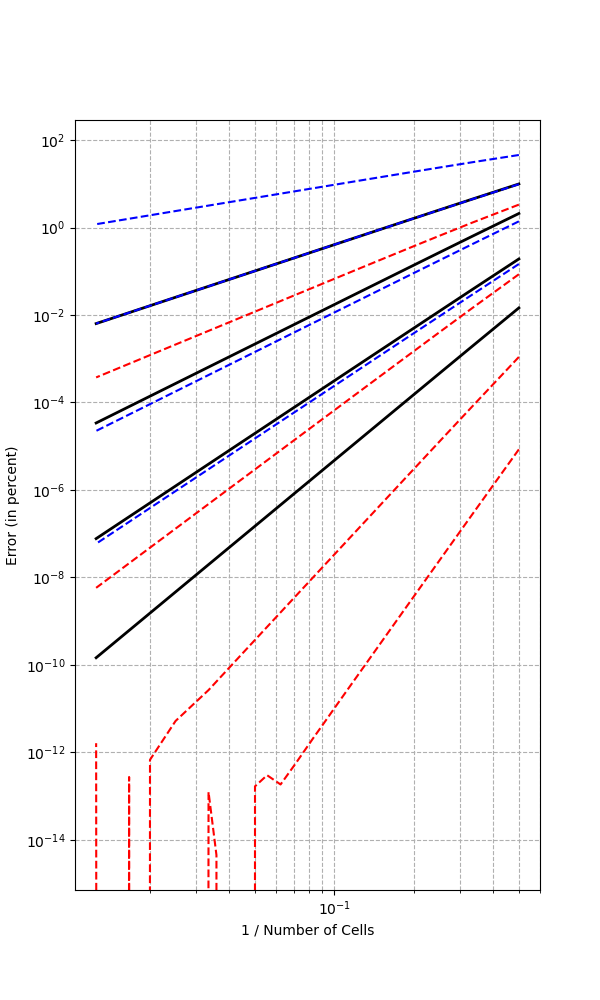
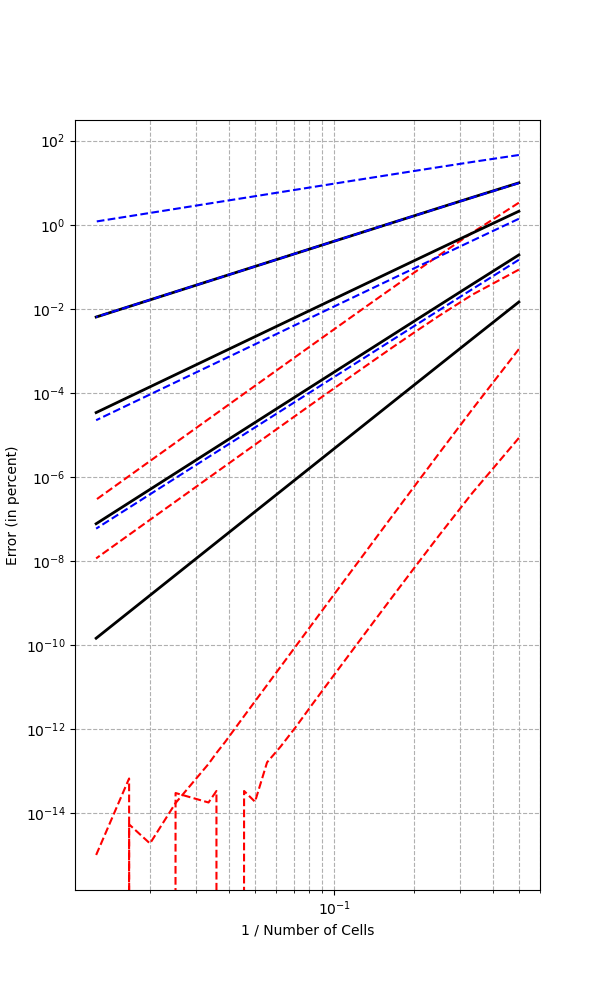
Final touch

diff --git a/main.py b/main.py
@@ -3,14 +3,10 @@ import scipy as sp
 import matplotlib.pyplot as plt
 from scipy.integrate import quad
 
-# pd.n_cells: number of cells
-# pd.h: cell diameter, uniform for all elements
-# pd.K: polynomial degree, equal for all elements
-
-# cell dofs of all the cells first 
-# then the edge dofs 
-
-# Github copilot hadrien-beriot_SAGCP
+# 1D HHO code from Chapter 8 of  
+# CICUTTIN, Matteo; ERN, Alexandre; PIGNET, Nicolas. 
+# "Hybrid High-Order Methods: a primer with applications to solid mechanics"
+# Cham, Switzerland: Springer, 2021.
 
 class ProblemDefinition:
     def __init__(self):
@@ -109,9 +105,10 @@ def get_dofs_super(pd,elem):
     return elem_dofs_super, cell_dofs_super, face_dofs_super
 
 def basis(x, x_bar, h, max_k):
-    # Listing 8.1 Possible implementation of a function evaluating the scaled monomial
-    # scalar basis and its derivatives in a 1D cell.
-    # convert to local coord x_tilde in [-1,1]  
+    """ 
+    Listing 8.1 Possible implementation of a function evaluating the scaled monomial
+    scalar basis and its derivatives in a 1D cell.
+    """  
     x_tilde = 2*(x-x_bar)/h 
     phi = np.zeros(max_k+1)
     dphi = np.zeros(max_k+1)
@@ -141,9 +138,9 @@ def fun_rhs_vector(pd, order, elem, fun):
     return rhs
 
 def hho_reduction(pd, elem, fun):
-    # Listing 8.2 Possible implementation of the reduction operator in 1D.
-    # Simple L^2 projection at order p !
-    # contains also projection on face dofs   
+    """
+    Listing 8.2 Possible implementation of the reduction operator in 1D.
+    """   
     order = pd.K
     mass = get_matrices(pd, order, elem)[0]
     v_rhs = fun_rhs_vector(pd, order, elem, fun)
@@ -156,20 +153,16 @@ def hho_reduction(pd, elem, fun):
     return I
 
 def hho_reconstruction(pd,elem): 
-    # Listing 8.3 Possible implementation of the reconstruction operator in 1D.
+    """
+    Listing 8.3 Possible implementation of the reconstruction operator in 1D.
     
     # R translates a vector from P_d^{k} to P_d^{k+1}
     # if v is a vector of HHO solution then R@v is in P_d^{k+1} 
-    # hence we have K = R^T @ K+ @ R, where K+ is the stiffness matrix of order K+1
-    # such R it translates the vector of unknowns into a higher degree space 
-    # issue is that we have to remove the constant term from the stiffness matrix
-    # and then add it back again. So we find first K*
-    # K* R = T - F1 - F2
-
+    # such that R translates the vector of unknowns into a higher degree space 
     # A := R.T @ K_star @ R
     #      2x4 @  4x4   @ 4x2 (linear K=0)
     # where K_star is a standard stiffness matrix of order K+1 with constant removed 
-            
+    """        
     x_bar = cell_center(pd, elem)
     xF1, xF2 = face_centers(pd, elem)
     
@@ -218,13 +211,15 @@ def get_phi_norm(pd, elem, order):
     return phi_norm
 
 def hho_vector_from_sol(pd,v_sol):
-    # reconstruct HHO vector in P_d^{k+1}
-    # from solution vector in P_d^{k} using reconstruction operator R
+    """
+    Reconstruct HHO vector in P_d^{k+1} 
+    from solution vector in P_d^{k} using reconstruction operator R
+    """
     v_hho = np.zeros(pd.n_dofs_super)
     for elem in range(pd.n_cells):
         elem_dofs, cell_dofs, face_dofs = get_dofs(pd,elem)
         elem_dofs_super, cell_dofs_super, face_dofs_super = get_dofs_super(pd,elem)
-        A_elem, R_elem = hho_reconstruction(pd, elem)
+        R_elem = hho_reconstruction(pd, elem)[1]
         vstar = R_elem @ v_sol[elem_dofs]
         vT = v_sol[cell_dofs]
         # need the constant term of cell dofs 
@@ -240,7 +235,9 @@ def hho_vector_from_sol(pd,v_sol):
     return v_hho
 
 def compute_cell_vector_norm(pd, elem, vector, order, is_constant = False):
-    # compute the norm of a vector on a cell - up to a constant
+    """
+    compute the norm of a vector on a cell - w/ or w/o the constant (monomial basis)
+    """
     if is_constant:
         phi_start_index = 0
     else:
@@ -295,13 +292,13 @@ def hho_stabilization(pd, elem, R):
     return S
 
 def HHO_check_operators(pd, v_func, fig_name = None):
-    # Need to replace everything after I calculation 
-
-    # hho reduction --> simple L^2
+    """
+    Check the HHO operators on a single run
+    """
+    # hho reduction --> simple L^2 projection
     I = np.zeros(pd.n_dofs)
-    # hho stiffness - using reconstruction R^T @ K* @ R and then adding the constant term
-    A = np.zeros((pd.n_dofs,pd.n_dofs))
-    S = np.zeros_like(A)
+    # hho stabilization
+    S = np.zeros((pd.n_dofs,pd.n_dofs))
     
     n_sampling = 20
     X = np.zeros(pd.n_cells*n_sampling)
@@ -309,58 +306,46 @@ def HHO_check_operators(pd, v_func, fig_name = None):
     V_L2 = np.zeros_like(X)
     V_REF = np.zeros_like(X)
     epsilon = 0
+
+    # First assemble "I", L2 projection of the target function
     for elem in range(pd.n_cells):
-        x_bar = cell_center(pd, elem)        
-        xF1, xF2 = face_centers(pd,elem)
-        elem_dofs, cell_dofs, face_dofs = get_dofs(pd,elem)
-
-        # hho_reduction is a simple L2 projection at order p
+        elem_dofs = get_dofs(pd,elem)[0]
         I_elem = hho_reduction(pd, elem, v_func)
-        I[elem_dofs] += I_elem
+        # Note: should not accumulate I here !!!
+        # otherwise sums up L^2 projection of v_func on faces (which is wrong)
+        I[elem_dofs] = I_elem
 
-        # Assemble HHO stifness matrix --> A = (∇RT (·),∇RT (·))L2(T ) - still missing the constant term though
-        A_elem, R_elem = hho_reconstruction(pd, elem)
-        A[np.ix_(elem_dofs, elem_dofs)] += A_elem 
+    # Then, reconstruct the HHO super convergent vector from "R"
+    V = hho_vector_from_sol(pd,I)
+
+    # Finally assemble the stabilization matrix "S"
+    for elem in range(pd.n_cells):
+        R_elem = hho_reconstruction(pd, elem)[1]
+        S_elem = hho_stabilization(pd, elem, R_elem)
+        S[np.ix_(elem_dofs, elem_dofs)] += S_elem
+
+    # local errors on the jump/stabilization
+    epsilon += I.T @ S @ I
     
-        # get the super convergent solution in the cell (up to a constant)
-        # I is a solution vector in P_d^k, containing the L2 projection of v(x) in each cell
-        # R is a reconstruction matrix from P_d^k to P_d^{k+1} - up to a constant
-        v_star = R_elem @ I_elem  
-
-        # now adjust the constant    
-        norm_vstar = compute_cell_vector_norm(pd, elem, v_star, pd.K+1, is_constant = False)
-        #norm_vstar = get_vstar_norm(pd, elem, v_star)        
-        norm_vT, error = quad(v_func, xF1, xF2, epsabs=1e-12, epsrel=1e-12)
-        v = np.zeros(v_star.shape[0]+1)
-        v[1:] = v_star
-        v[0] = (norm_vT - norm_vstar)/pd.h 
-
-        # also get a classical projection (L^2) for comparison
-        mass = get_matrices(pd, pd.K, elem)[0]
-        v_rhs = fun_rhs_vector(pd, pd.K, elem, v_func)
-        coeffs_L2 = np.linalg.solve(mass,v_rhs)
-
-        # plot it 
+    # Plot everything and compute pointwise errors
+    for elem in range(pd.n_cells):
+        x_bar = cell_center(pd, elem)
+        xF1, xF2 = face_centers(pd,elem)
+        cell_dofs = get_dofs(pd,elem)[1]
+        cell_dofs_super = get_dofs_super(pd,elem)[1]
         x_plot = np.linspace(xF1,xF2,n_sampling)
         for i, x in enumerate(x_plot):
             # order k+1
-            phi = basis(x, x_bar, pd.h, pd.K+1)[0]
-            V_HHO[elem*n_sampling+i] = np.dot(v,phi)
-            # order k (L^2)
+            phi_super = basis(x, x_bar, pd.h, pd.K+1)[0]
+            V_HHO[elem*n_sampling+i] = np.dot(V[cell_dofs_super],phi_super)
+            # order k
             phi = basis(x, x_bar, pd.h, pd.K)[0]
-            V_L2[elem*n_sampling+i] = np.dot(coeffs_L2,phi)
+            V_L2[elem*n_sampling+i] = np.dot(I[cell_dofs],phi)
             X[elem*n_sampling+i] = x
         
         # target function
         v_ref = [v_func(x) for x in x_plot]
         V_REF[elem*n_sampling:(elem+1)*n_sampling] = v_ref
-
-        # stabilization matrix
-        S_elem = hho_stabilization(pd, elem, R_elem)
-        S[np.ix_(elem_dofs, elem_dofs)] += S_elem
-
-        # compute the error on the jump
-        epsilon += I_elem.T @ S_elem @ I_elem
 
     # compute and print errors
     error_L2 = np.linalg.norm(V_L2 - V_REF)/np.linalg.norm(V_REF)*100
@@ -373,7 +358,7 @@ def HHO_check_operators(pd, v_func, fig_name = None):
 
     X_F = np.linspace(0, pd.domain_length, pd.n_cells + 1)
     V_F = np.array([v_func(x) for x in X_F])
-    # plot the result 
+    # plot the result like in Figs 8.4
     if fig_name is not None:
         plt.figure(figsize=(10,6))
         #plt.plot(X,V_REF,'r-',label='v(x) - reference')
@@ -383,28 +368,13 @@ def HHO_check_operators(pd, v_func, fig_name = None):
         plt.legend()
         plt.savefig(fig_name + ".png")  # Save as PNG
 
-    # ############################################
-    # # Try now a global reduction V_L2 = PHI @ I
-    # ############################################
-    # n_sampling = 100
-    # PHI = np.zeros((pd.n_cells*n_sampling,pd.n_dofs))
-    # for elem in range(pd.n_cells):
-    #     # from (8.11)    
-    #     x_bar = cell_center(pd, elem)
-    #     xF1, xF2 = face_centers(pd,elem)
-    #     elem_dofs, cell_dofs, face_dofs = get_dofs(pd,elem) 
-    #     x_plot = np.linspace(xF1,xF2,n_sampling)
-    #     for i, x in enumerate(x_plot):
-    #         phi = basis(x, x_bar, pd.h, pd.K)[0]
-    #         PHI[elem*n_sampling+i,cell_dofs] = phi
-        
-    # V_L2 = PHI @ I
-
     return error_L2, error_HHO, error_jump
 
 def HHO_Assemble_Stiffness(pd):
-    # Assemble HHO stifness matrix 
-    # A = (∇RT (·),∇RT (·))L2(T ) - still missing the constant term though
+    """
+    Assemble HHO stifness matrix 
+    # A = (∇RT (·),∇RT (·))L2(T ) 
+    """ 
     A = np.zeros((pd.n_dofs,pd.n_dofs))
     S = np.zeros_like(A)
     
@@ -421,13 +391,17 @@ def HHO_Assemble_Stiffness(pd):
     return Stiffness
 
 def HHO_Apply_Neumann_BC(pd,rhs_vector):
-    # Enforce Neumann BC at the end    
+    """ 
+    Enforce Neumann BC at the end (last dof)    
+    """
     if pd.Neumann_1 is not None:
         rhs_vector[-1] = pd.Neumann_1
     return rhs_vector
 
 def HHO_Apply_Dirichlet_BC(pd,Stiffness,rhs_vector):
-    # Enforce Dirichlet BC by constraint
+    """ 
+    Enforce Dirichlet BC by constraint
+    """
     if pd.Dirichlet_0 is not None:
         dof_0 = get_face_dofs(pd,elem=0)[0]
         rhs_vector[dof_0] = pd.Dirichlet_0 
@@ -440,7 +414,9 @@ def HHO_Apply_Dirichlet_BC(pd,Stiffness,rhs_vector):
     return Stiffness, rhs_vector
 
 def HHO_Apply_Source(pd,rhs_vector):
-    # Enforce Dirichlet BC by constraint
+    """ 
+    Apply a volume source term to the right-hand side
+    """
     if pd.Source_func is not None:
         for elem in range(pd.n_cells):
             x_bar = cell_center(pd, elem)
@@ -452,7 +428,9 @@ def HHO_Apply_Source(pd,rhs_vector):
     return rhs_vector
 
 def interpolate(pd,sol,n_sampling,is_super = False):
-    # Interpolate on mesh a solution vector (super-convergent or not)
+    """ 
+    Interpolate solution vector on 1D mesh (super-convergent or not)
+    """
     X = np.zeros(pd.n_cells*n_sampling)
     V = np.zeros(pd.n_cells*n_sampling)
     for elem in range(pd.n_cells):
@@ -473,7 +451,9 @@ def interpolate(pd,sol,n_sampling,is_super = False):
     return X, V
 
 def Solve_HHO_Problem(pd):
-    # SINGLE RUN WITH NEUMAN OR DIRICHLET BC
+    """ 
+    SINGLE RUN OF HHO SOLVER
+    """
     Rhs = np.zeros(pd.n_dofs)
     Stiffness = HHO_Assemble_Stiffness(pd)
     Stiffness, Rhs  = HHO_Apply_Dirichlet_BC(pd, Stiffness, Rhs)
@@ -493,28 +473,28 @@ def Solve_HHO_Problem(pd):
 ###############################################################
 ###############################################################
 if __name__=='__main__':
+    """
+    A. Operators Check
+    TEST_ID = 0 --> OPERATORS CHECK (TARGET FUNCTION) ON A SINGLE RUN - FIG 8.9
+    TEST_ID = 1 --> OPERATORS CHECK (TARGET FUNCTION) - CONVERGENCE
 
-    # Operators Check
-    # TEST_ID = 0 --> OPERATORS CHECK (TARGET FUNCTION) ON A SINGLE RUN - FIG 8.9
-    # TEST_ID = 1 --> OPERATORS CHECK (TARGET FUNCTION) - CONVERGENCE
+    B. Solving 1D problems
+    TEST_ID = 2 --> DIRICHLET PROBLEM, SINGLE RUN
+    TEST_ID = 3 --> DIRICHLET-NEUMANN PROBLEM, SINGLE RUN
+    TEST_ID = 4 --> DIRICHLET-NEUMANN PROBLEM + SOURCE TERM, SINGLE RUN
+    TEST_ID = 5 --> DIRICHLET-NEUMANN PROBLEM + SOURCE TERM, CONVERGENCE 
 
-    # Solving real 1D problems
-    # TEST_ID = 2 --> DIRICHLET PROBLEM, SINGLE RUN
-    # TEST_ID = 3 --> DIRICHLET-NEUMANN PROBLEM, SINGLE RUN
-    # TEST_ID = 4 --> DIRICHLET-NEUMANN PROBLEM + SOURCE TERM, SINGLE RUN
-    # TEST_ID = 5 --> DIRICHLET-NEUMANN PROBLEM + SOURCE TERM, CONVERGENCE 
+    STILL TO DO: static condensation 
+    """
     
-    # To do next: 
-    # - static condensation 
-    
-    TEST_ID = 5
+    TEST_ID = 4
 
     if TEST_ID == 0:
         pd_single_run = ProblemDefinition()
         pd_single_run.domain_length = 1
         # target function 
         v_func = lambda x: np.sin(np.pi*x)
-        
+
         pd_single_run.K = 0
         pd_single_run.n_cells = 8
         pd_single_run.initialize()
@@ -636,7 +616,7 @@ if __name__=='__main__':
         pd_all.n_cells = 1
         # BCs
         pd_all.Dirichlet_0 = 0; 
-        pd_all.Neumann_1 = 0.1
+        pd_all.Neumann_1 = 0
         pd_all.Source_func = lambda x: np.sin(np.pi*x)
         pd_all.initialize()
 
@@ -664,7 +644,7 @@ if __name__=='__main__':
 
         error_hho = np.linalg.norm(plot_sol_hho-plot_ref)/np.linalg.norm(plot_ref)*100
         error_sol = np.linalg.norm(plot_sol-plot_ref)/np.linalg.norm(plot_ref)*100
-        print(f"\ntest #3: Dirichlet-Neuman problem - relative error (in percent)")
+        print(f"\ntest #4: Dirichlet-Neuman problem - relative error (in percent)")
         print(f"\t - no reconstruction      : {error_sol}")
         print(f"\t - with HHO reconstruction: {error_hho}")
 
@@ -701,7 +681,7 @@ if __name__=='__main__':
 
                 error_hho = np.linalg.norm(plot_sol_hho-plot_ref)/np.linalg.norm(plot_ref)*100
                 error_sol = np.linalg.norm(plot_sol-plot_ref)/np.linalg.norm(plot_ref)*100
-                print(f"\ntest #3: Dirichlet-Neuman problem - relative error (in percent)")
+                print(f"\ntest #5: Dirichlet-Neuman problem - relative error (in percent)")
                 print(f"\t - no reconstruction      : {error_sol}")
                 print(f"\t - with HHO reconstruction: {error_hho}")
 
